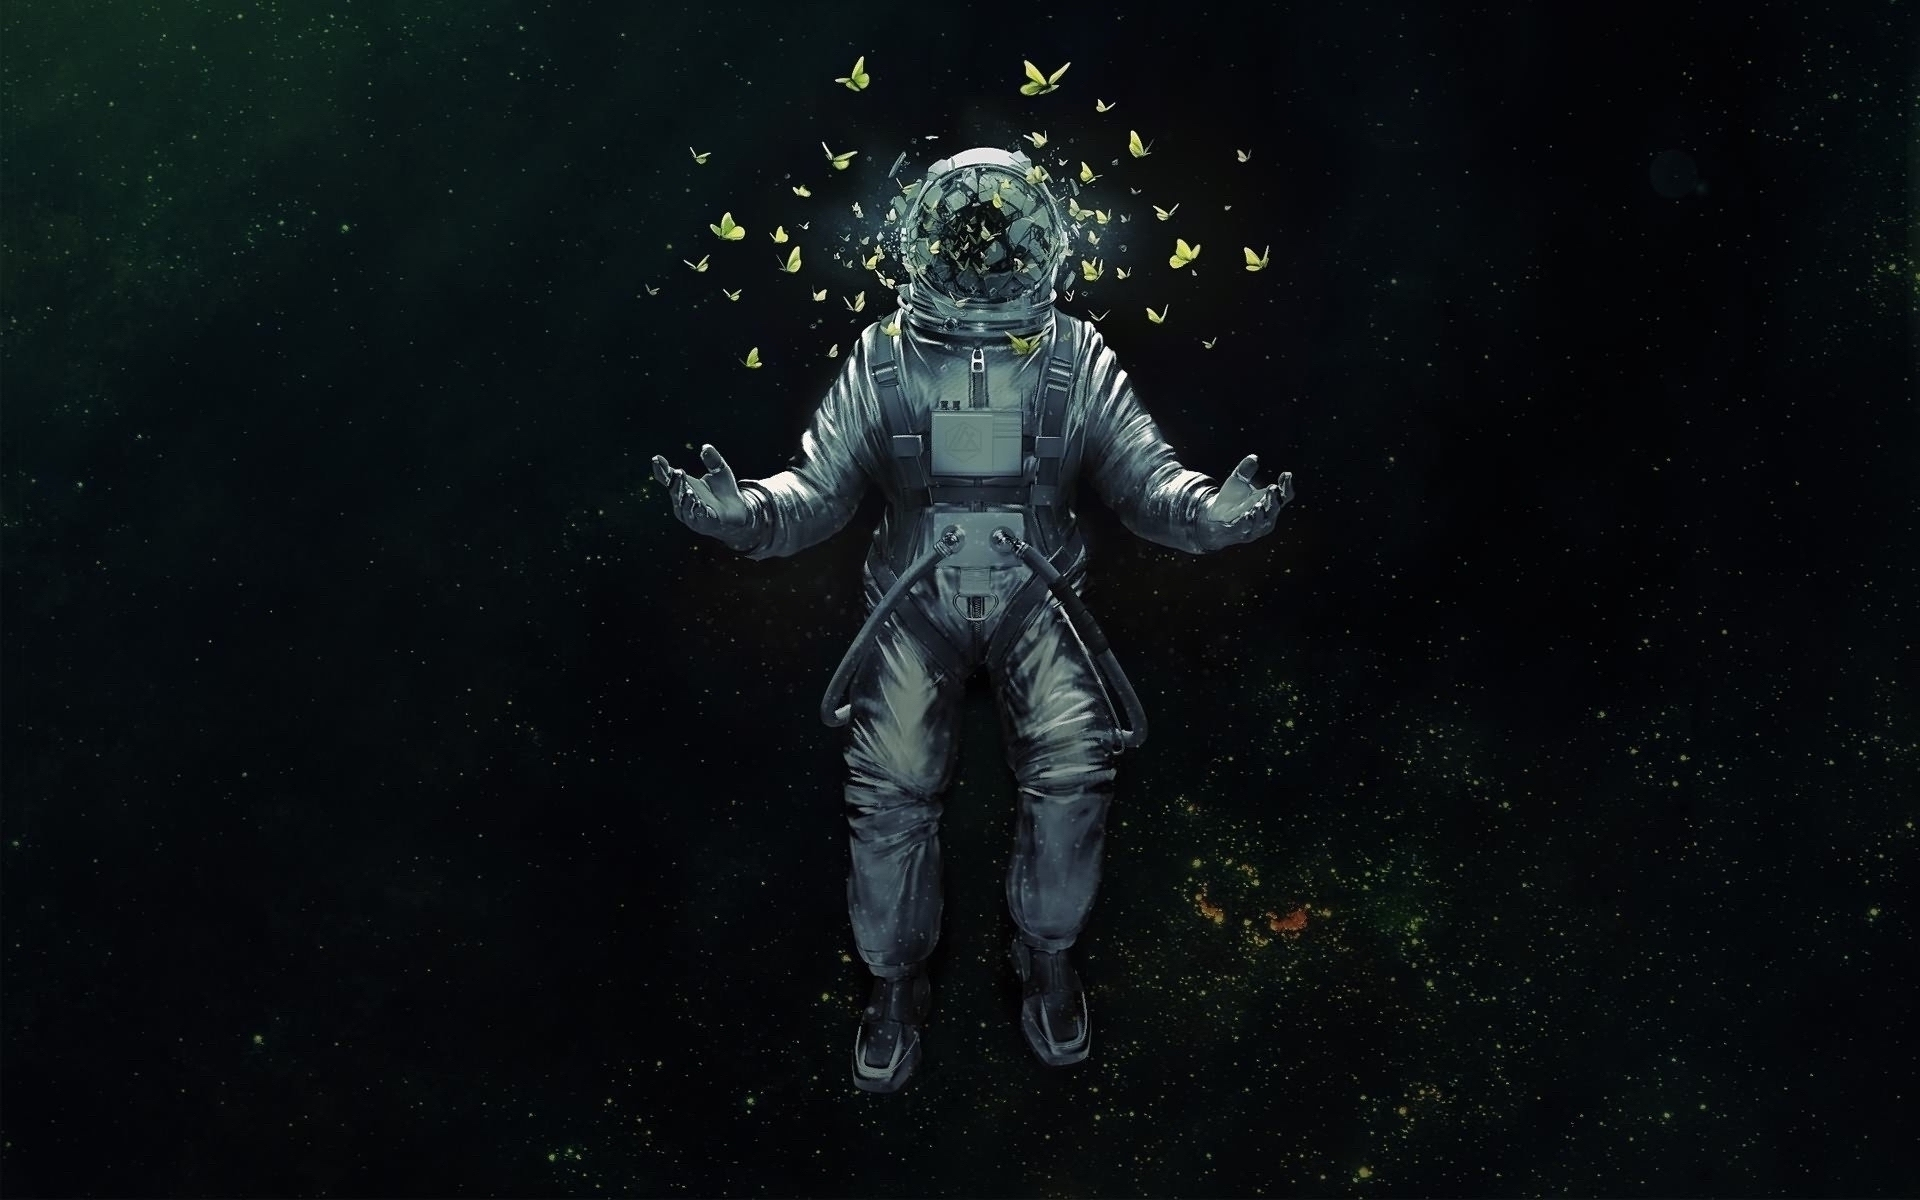
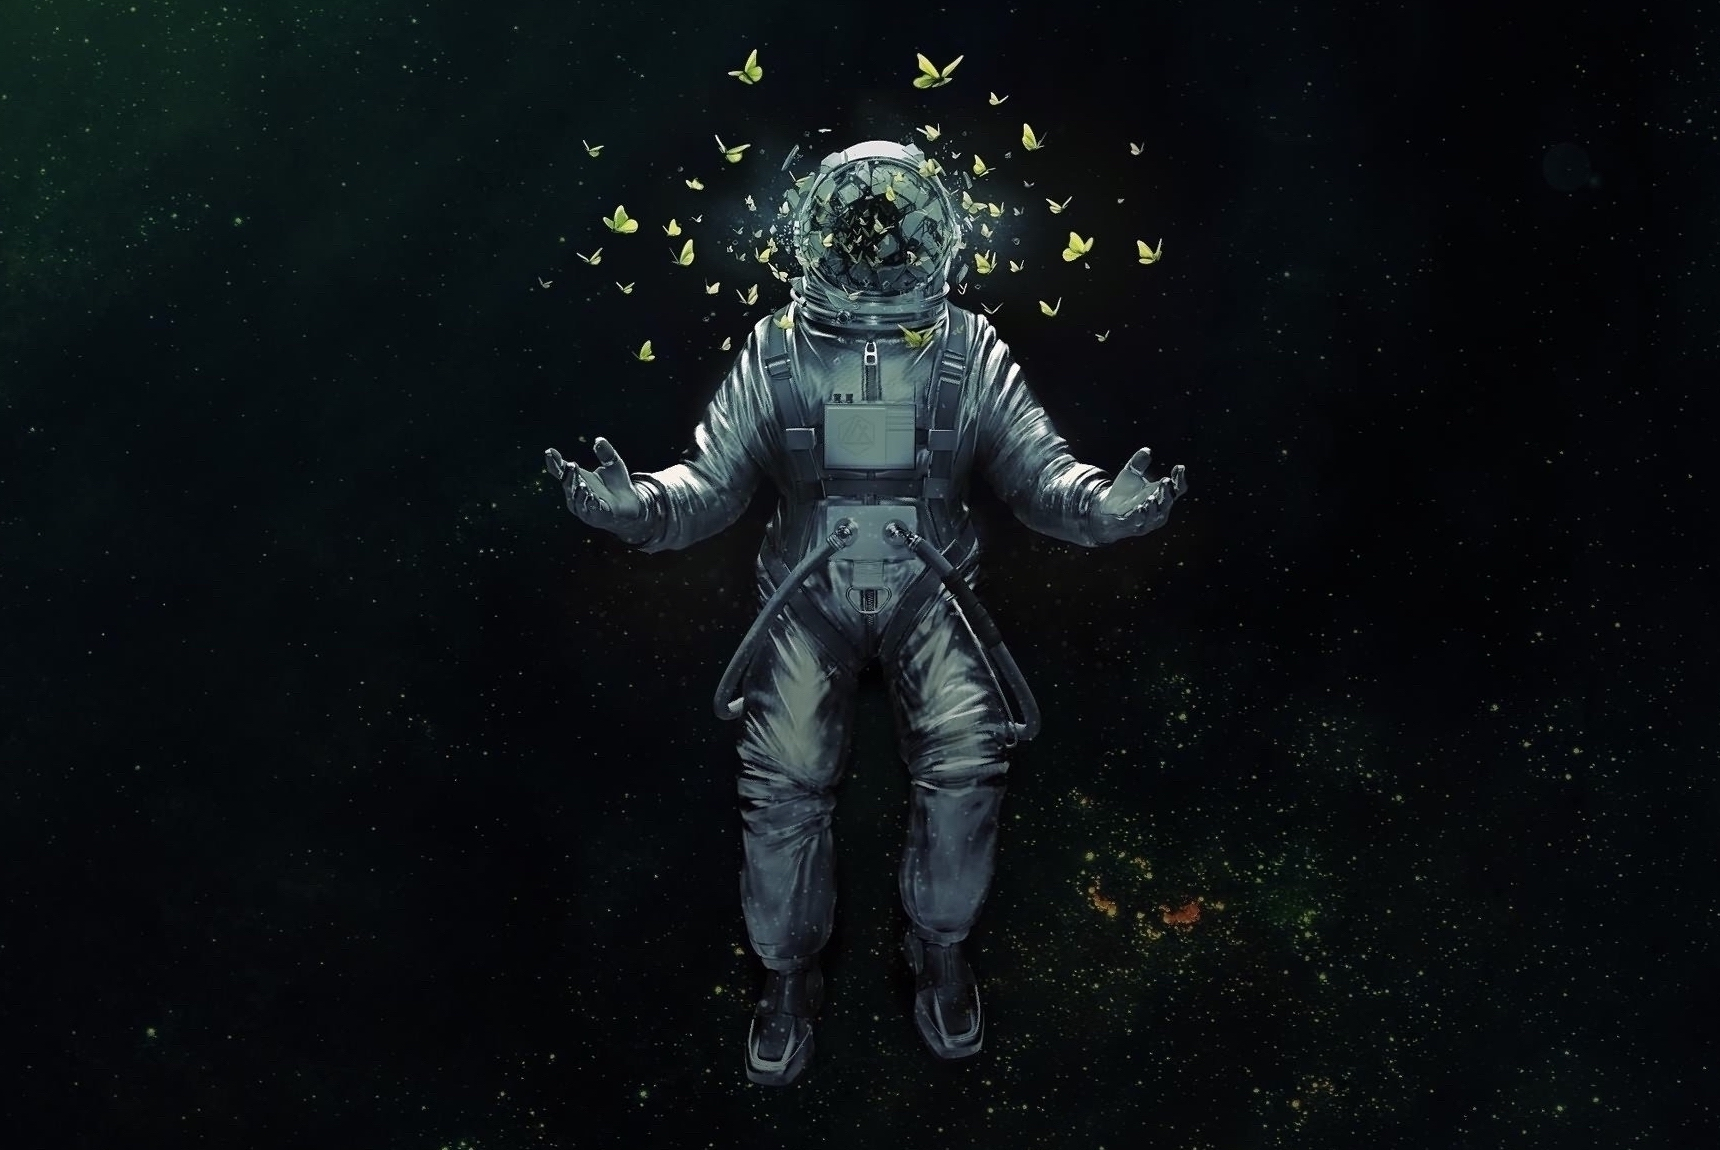
resize image to less than 2mp

diff --git a/assets/style.css b/assets/style.css
@@ -7,7 +7,7 @@
 
 body {
     font: 400 16px/22px "Open Sans", "Helvetica Neue", Helvetica, Arial, sans-serif;
-    background-image: url("./images/astronaut.jpg");
+    background-image: url("./images/astronaut-copy.jpeg");
     background-size: cover;
     background-position: cover;
     background-attachment: fixed;
@@ -276,7 +276,6 @@ section {
 /* this will be applied on any screen between 768px and 575px */
 @media screen and (max-width: 768px) {
     body {
-        background-size: 1536px 2048px;
 
     }
 
